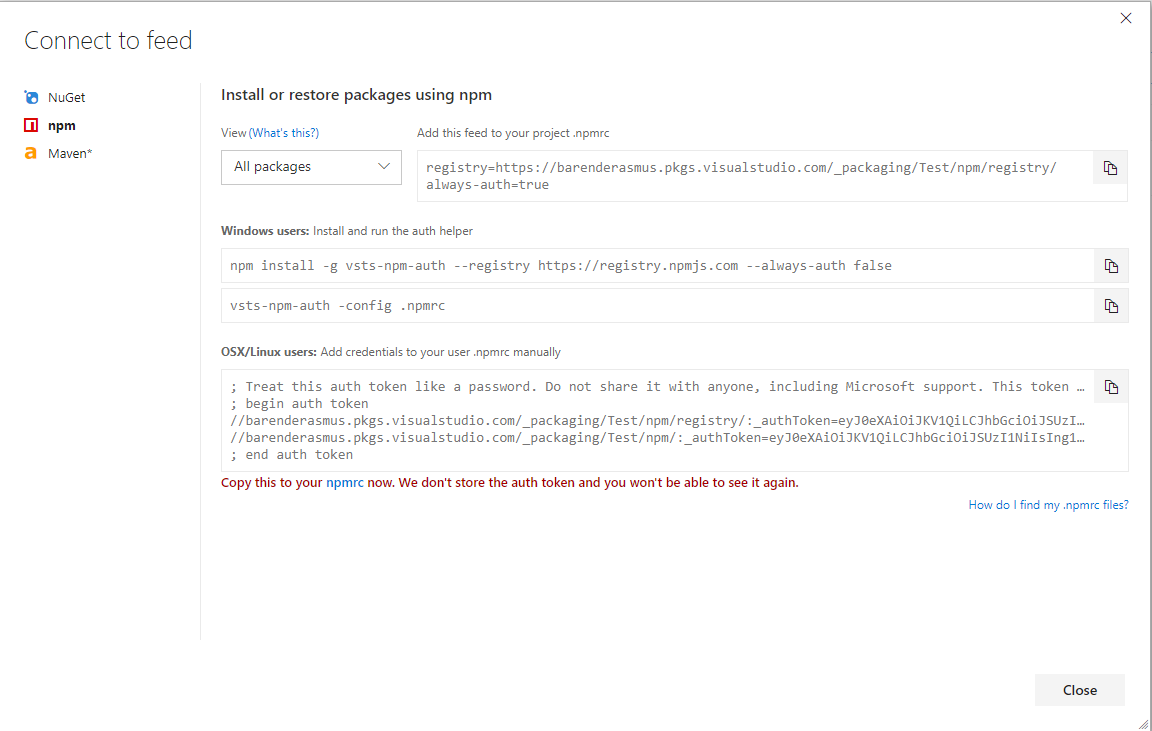
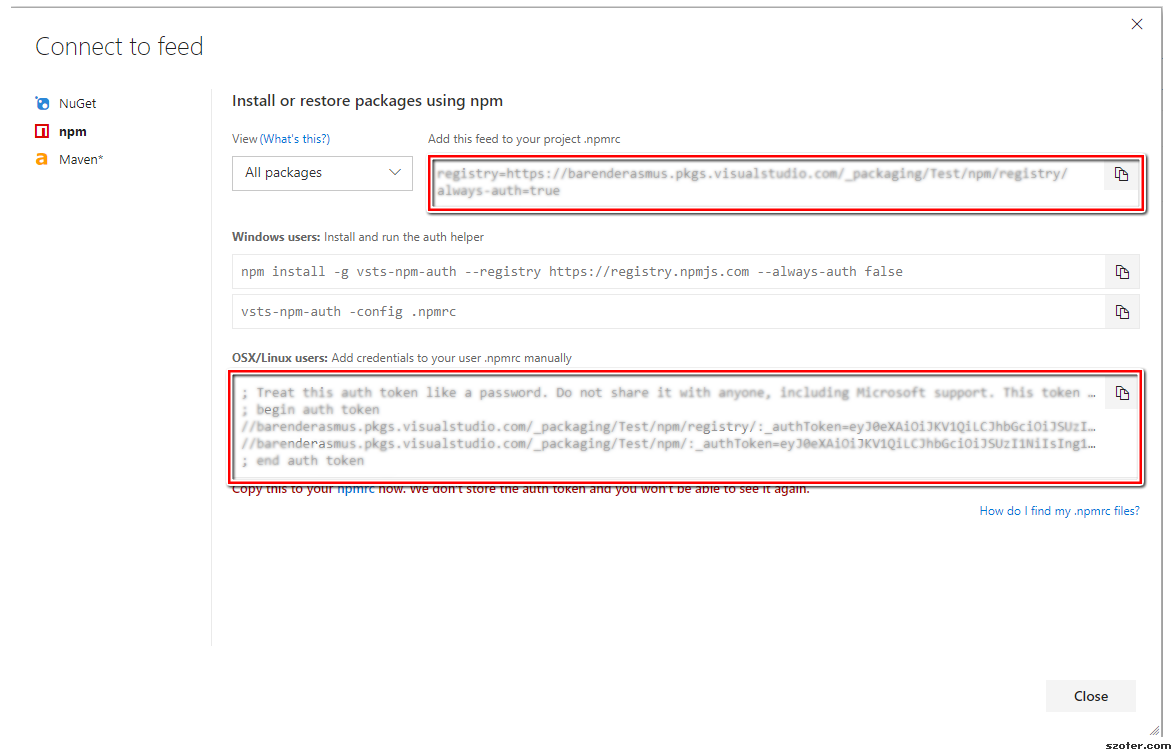
update

diff --git a/README.md b/README.md
@@ -33,3 +33,11 @@ On the left of the modal there are three sections called `NuGet`, `npm`, `Maven`
 You can click on either of these sections and the corresponding details should appear.
 
 ## Publish (npm)
+
+Create a `.npmrc` file in your project and copy these two sections into the file.
+
+![](https://github.com/barend-erasmus/package-management-on-tfs/raw/master/screenshots/modal-2.PNG)
+
+Once you've created this file with the correct contents, you can run `npm publish`.
+
+Your package should appear on the Feed.
